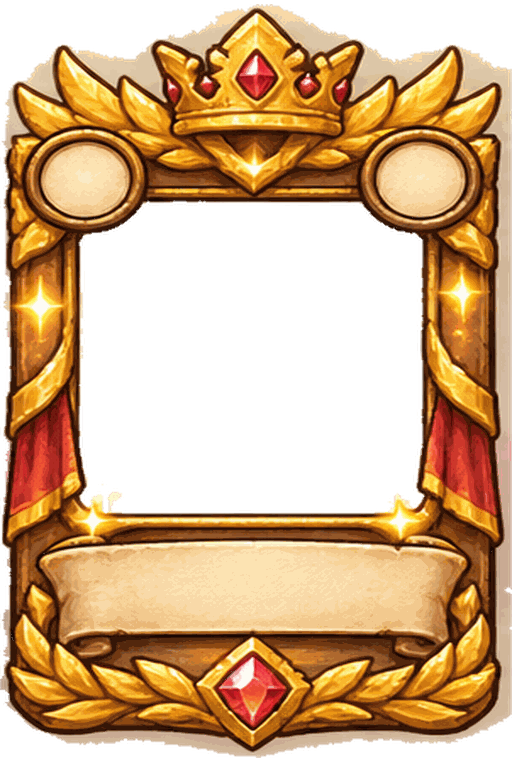
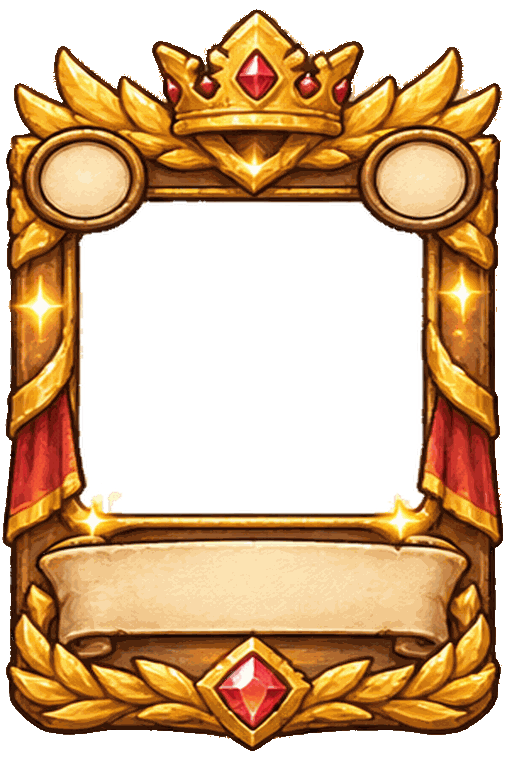
カード枠に残っていた背景を切り抜き、合成可の札がカードを覆う表示を直す
Claude-Session: https://claude.ai/code/session_01Lcti3M1rHMyEPzowsAR7Re

diff --git a/js/ui/precache.js b/js/ui/precache.js
@@ -1,2 +1,2 @@
-self.CF_CACHE_VERSION="67141b2bafe5fe93";
+self.CF_CACHE_VERSION="dad8018e7949b81d";
 self.CF_ASSETS=["index.html","manifest.webmanifest","css/accessibility.css","css/finishing-art.css","css/help-guide.css","css/kingdom.css","css/layout.css","css/mana-growth.css","css/materials.css","css/motion.css","css/mp.css","css/polish.css","css/rarity-assets.css","css/rarity-fx.css","css/settings.css","css/step5.css","css/style.css","css/theme.css","css/tutorial.css","js/game/Card.js","js/game/Castle.js","js/game/Game.js","js/game/Monster.js","js/game/Player.js","js/game/Road.js","js/game/Setup.js","js/game/Soldier.js","js/game/strategies.js","js/game/visibility.js","js/main.js","js/ui/Accessibility.js","js/ui/Animations.js","js/ui/BattleLayout.js","js/ui/CardGuide.js","js/ui/CardInfo.js","js/ui/DebugPanel.js","js/ui/HandView.js","js/ui/HelpView.js","js/ui/LocalSetup.js","js/ui/MatchStats.js","js/ui/MaterialSkin.js","js/ui/Music.js","js/ui/OnlineClient.js","js/ui/ProgressPanel.js","js/ui/Renderer.js","js/ui/RoomView.js","js/ui/Session.js","js/ui/Settings.js","js/ui/Sound.js","js/ui/Targeting.js","js/ui/Tutorial.js","js/ui/UpgradePanel.js","js/ui/art.js","js/ui/cardFrame.js","js/ui/cardView.js","js/ui/config.js","js/ui/handOrder.js","js/ui/look.js","js/ui/motion.js","js/ui/pills.js","js/ui/rarity.js","js/ui/syncCheck.js","js/ui/text.js","data/cards.json","data/castles.json","data/decks.json","data/monsters.json","data/rarities.json","data/rules.json","data/upgrades.json","assets/asset-manifest.json","assets/bg/board-meadow-compact.png","assets/bg/board-meadow.png","assets/bg/board.png","assets/bg/kingdom-meadow.png","assets/bg/kingdom-valley.png","assets/bg/title-compact.png","assets/bg/title.png","assets/cards/card-absolute-zero.png","assets/cards/card-adapt.png","assets/cards/card-apocalypse.png","assets/cards/card-apprentice-archer.png","assets/cards/card-apprentice-mage.png","assets/cards/card-archer.png","assets/cards/card-archmage.png","assets/cards/card-barrier.png","assets/cards/card-big-shield.png","assets/cards/card-big-thunder.png","assets/cards/card-blessing.png","assets/cards/card-bolt.png","assets/cards/card-cavalry.png","assets/cards/card-coin-pouch.png","assets/cards/card-death-mist.png","assets/cards/card-decoy.png","assets/cards/card-deep-freeze.png","assets/cards/card-dragon-knight.png","assets/cards/card-earth-hammer.png","assets/cards/card-earth-king.png","assets/cards/card-earth-spirit.png","assets/cards/card-fire-king.png","assets/cards/card-fire-spirit.png","assets/cards/card-fireball.png","assets/cards/card-flame-sword.png","assets/cards/card-frost-breath.png","assets/cards/card-frozen-world.png","assets/cards/card-gate.png","assets/cards/card-giant.png","assets/cards/card-glacier.png","assets/cards/card-god-shield.png","assets/cards/card-god-sword.png","assets/cards/card-goddess.png","assets/cards/card-gold-coin.png","assets/cards/card-gold-vein.png","assets/cards/card-great-earth-spirit.png","assets/cards/card-great-fire-spirit.png","assets/cards/card-great-heal.png","assets/cards/card-great-water-spirit.png","assets/cards/card-great-wind-spirit.png","assets/cards/card-heal.png","assets/cards/card-heavy.png","assets/cards/card-hero.png","assets/cards/card-holy-light.png","assets/cards/card-holy-shield.png","assets/cards/card-holy-sword.png","assets/cards/card-infantry.png","assets/cards/card-inferno.png","assets/cards/card-iron-sword.png","assets/cards/card-judgment.png","assets/cards/card-king-treasure.png","assets/cards/card-knight.png","assets/cards/card-longbowman.png","assets/cards/card-mage.png","assets/cards/card-magic-sword.png","assets/cards/card-mana-crystal.png","assets/cards/card-mana-drop.png","assets/cards/card-mana-shard.png","assets/cards/card-mana-spring.png","assets/cards/card-meteor.png","assets/cards/card-minor-heal.png","assets/cards/card-paladin.png","assets/cards/card-plague.png","assets/cards/card-poison-mist.png","assets/cards/card-prayer.png","assets/cards/card-raijin.png","assets/cards/card-reflect.png","assets/cards/card-sage.png","assets/cards/card-sandbag.png","assets/cards/card-scout.png","assets/cards/card-shield.png","assets/cards/card-sky-archer.png","assets/cards/card-sniper.png","assets/cards/card-sorcerer.png","assets/cards/card-spearman.png","assets/cards/card-starfall.png","assets/cards/card-steel-shield.png","assets/cards/card-stone-wall.png","assets/cards/card-thief.png","assets/cards/card-thunder.png","assets/cards/card-toxic-rain.png","assets/cards/card-treasure.png","assets/cards/card-venom.png","assets/cards/card-wall.png","assets/cards/card-water-king.png","assets/cards/card-water-spear.png","assets/cards/card-water-spirit.png","assets/cards/card-wind-bow.png","assets/cards/card-wind-king.png","assets/cards/card-wind-spirit.png","assets/cards/card-world-tree-dew.png","assets/cards/frame-common.png","assets/cards/frame-defense.png","assets/cards/frame-epic.png","assets/cards/frame-legendary.png","assets/cards/frame-rare.png","assets/cards/frame-soldier.png","assets/cards/frame-special.png","assets/cards/frame-spell.png","assets/cards/frame-uncommon.png","assets/cards/frame-weapon.png","assets/castles/barracks-blue-damaged-1.png","assets/castles/barracks-blue-damaged-2.png","assets/castles/barracks-blue-damaged-3.png","assets/castles/barracks-blue.png","assets/castles/barracks-orange-damaged-1.png","assets/castles/barracks-orange-damaged-2.png","assets/castles/barracks-orange-damaged-3.png","assets/castles/barracks-orange.png","assets/castles/castle-blue-damaged-1.png","assets/castles/castle-blue-damaged-2.png","assets/castles/castle-blue-damaged-3.png","assets/castles/castle-blue-ruined.png","assets/castles/castle-blue.png","assets/castles/castle-orange-damaged-1.png","assets/castles/castle-orange-damaged-2.png","assets/castles/castle-orange-damaged-3.png","assets/castles/castle-orange-ruined.png","assets/castles/castle-orange.png","assets/castles/fortress-blue-damaged-1.png","assets/castles/fortress-blue-damaged-2.png","assets/castles/fortress-blue-damaged-3.png","assets/castles/fortress-blue.png","assets/castles/fortress-orange-damaged-1.png","assets/castles/fortress-orange-damaged-2.png","assets/castles/fortress-orange-damaged-3.png","assets/castles/fortress-orange.png","assets/castles/tower-blue-damaged-1.png","assets/castles/tower-blue-damaged-2.png","assets/castles/tower-blue-damaged-3.png","assets/castles/tower-blue.png","assets/castles/tower-orange-damaged-1.png","assets/castles/tower-orange-damaged-2.png","assets/castles/tower-orange-damaged-3.png","assets/castles/tower-orange.png","assets/fx/dust.png","assets/fx/evolve-1.png","assets/fx/evolve-2.png","assets/fx/evolve-3.png","assets/fx/explosion.png","assets/fx/fireball.png","assets/fx/fusion.png","assets/fx/heal.png","assets/fx/ice.png","assets/fx/lightning.png","assets/fx/lucky-reward.png","assets/fx/poison.png","assets/ui/app-icon-192.png","assets/ui/app-icon-512.png","assets/ui/banner-win.png","assets/ui/btn-blue.png","assets/ui/btn-cream.png","assets/ui/btn-green.png","assets/ui/btn-orange.png","assets/ui/btn-red.png","assets/ui/btn-round.png","assets/ui/button-end-turn.png","assets/ui/card-back.png","assets/ui/icon-coin.png","assets/ui/icon-earth.png","assets/ui/icon-fire.png","assets/ui/icon-heart.png","assets/ui/icon-help.png","assets/ui/icon-kind-defense.png","assets/ui/icon-kind-soldier.png","assets/ui/icon-kind-spell.png","assets/ui/icon-kind-weapon.png","assets/ui/icon-kind-wild.png","assets/ui/icon-luck.png","assets/ui/icon-mode-local.png","assets/ui/icon-mode-online.png","assets/ui/icon-mode-solo.png","assets/ui/icon-mp.png","assets/ui/icon-rarity-common.png","assets/ui/icon-rarity-epic.png","assets/ui/icon-rarity-legendary.png","assets/ui/icon-rarity-rare.png","assets/ui/icon-rarity-special.png","assets/ui/icon-rarity-uncommon.png","assets/ui/icon-water.png","assets/ui/icon-wind.png","assets/ui/kingdom-crest.png","assets/ui/kingdom-parchment.png","assets/ui/kingdom-platform.png","assets/ui/kingdom-primary.png","assets/ui/kingdom-secondary.png","assets/ui/kingdom-wood.png","assets/ui/logo.png","assets/ui/natural/danger-40-left.png","assets/ui/natural/danger-40-middle.png","assets/ui/natural/danger-40-right.png","assets/ui/natural/danger-44-left.png","assets/ui/natural/danger-44-middle.png","assets/ui/natural/danger-44-right.png","assets/ui/natural/danger-72-left.png","assets/ui/natural/danger-72-middle.png","assets/ui/natural/danger-72-right.png","assets/ui/natural/frame.png","assets/ui/natural/leather-tile.png","assets/ui/natural/neutral-40-left.png","assets/ui/natural/neutral-40-middle.png","assets/ui/natural/neutral-40-right.png","assets/ui/natural/neutral-44-left.png","assets/ui/natural/neutral-44-middle.png","assets/ui/natural/neutral-44-right.png","assets/ui/natural/neutral-72-left.png","assets/ui/natural/neutral-72-middle.png","assets/ui/natural/neutral-72-right.png","assets/ui/natural/neutral-wide-full.png","assets/ui/natural/oak-tile.png","assets/ui/natural/paper-tile.png","assets/ui/natural/primary-40-left.png","assets/ui/natural/primary-40-middle.png","assets/ui/natural/primary-40-right.png","assets/ui/natural/primary-44-left.png","assets/ui/natural/primary-44-middle.png","assets/ui/natural/primary-44-right.png","assets/ui/natural/primary-72-left.png","assets/ui/natural/primary-72-middle.png","assets/ui/natural/primary-72-right.png","assets/ui/natural/primary-wide-full.png","assets/ui/natural/round-neutral.png","assets/ui/natural/round-selected.png","assets/ui/natural/selected-40-left.png","assets/ui/natural/selected-40-middle.png","assets/ui/natural/selected-40-right.png","assets/ui/natural/selected-44-left.png","assets/ui/natural/selected-44-middle.png","assets/ui/natural/selected-44-right.png","assets/ui/natural/selected-72-left.png","assets/ui/natural/selected-72-middle.png","assets/ui/natural/selected-72-right.png","assets/ui/panel-parchment.png","assets/ui/result-defeat.png","assets/ui/result-victory.png","assets/ui/sign-hp.png","assets/ui/tap-plate.png","assets/ui/title-castle-blue.png","assets/ui/title-castle-orange.png","assets/ui/title-infantry-orange.png","assets/ui/title-knight-blue.png","assets/units/apprentice-archer-blue.png","assets/units/apprentice-archer-orange.png","assets/units/apprentice-mage-blue.png","assets/units/apprentice-mage-orange.png","assets/units/archer-blue.png","assets/units/archer-orange.png","assets/units/archmage-blue.png","assets/units/archmage-orange.png","assets/units/cavalry-blue.png","assets/units/cavalry-orange.png","assets/units/dragon-knight-blue.png","assets/units/dragon-knight-orange.png","assets/units/earth-spirit.png","assets/units/fire-spirit.png","assets/units/giant-blue.png","assets/units/giant-orange.png","assets/units/great-earth-spirit.png","assets/units/great-fire-spirit.png","assets/units/great-water-spirit.png","assets/units/great-wind-spirit.png","assets/units/heavy-blue.png","assets/units/heavy-orange.png","assets/units/hero-blue.png","assets/units/hero-orange.png","assets/units/infantry-blue.png","assets/units/infantry-orange.png","assets/units/knight-blue.png","assets/units/knight-orange.png","assets/units/longbowman-blue.png","assets/units/longbowman-orange.png","assets/units/mage-blue.png","assets/units/mage-orange.png","assets/units/monster-bat.png","assets/units/monster-demon-king.png","assets/units/monster-demon.png","assets/units/monster-dragon.png","assets/units/monster-ghost.png","assets/units/monster-goblin.png","assets/units/monster-golem.png","assets/units/monster-mimic.png","assets/units/monster-skeleton.png","assets/units/monster-slime.png","assets/units/monster-treant.png","assets/units/monster-vampire.png","assets/units/paladin-blue.png","assets/units/paladin-orange.png","assets/units/sage-blue.png","assets/units/sage-orange.png","assets/units/scout-blue.png","assets/units/scout-orange.png","assets/units/sky-archer-blue.png","assets/units/sky-archer-orange.png","assets/units/sniper-blue.png","assets/units/sniper-orange.png","assets/units/sorcerer-blue.png","assets/units/sorcerer-orange.png","assets/units/spearman-blue.png","assets/units/spearman-orange.png","assets/units/water-spirit.png","assets/units/wind-spirit.png"];

diff --git a/css/mana-growth.css b/css/mana-growth.css
@@ -8,7 +8,7 @@
 .card-mp { display:flex; align-items:center; gap:2px; }
 .card-mp .ic { width:15px; height:15px; }
 .mana-recovery { position:absolute; bottom:5px; left:50%; transform:translateX(-50%); z-index:8; font-size:11px; font-weight:900; color:#103d65; background:#d7f7ff; border:1px solid #396785; border-radius:5px; padding:1px 4px; white-space:nowrap; }
-.card.can-fuse::after { content:'合成可'; position:absolute; left:3px; top:32px; z-index:9; background:#fff4ca; color:#56351d; border:1px solid #aa853b; border-radius:5px; font-size:10px; font-weight:900; padding:2px 4px; }
+.card.can-fuse::after { content:'合成可'; position:absolute; left:3px; top:32px; right:auto; bottom:auto; width:auto; height:auto; z-index:9; background:#fff4ca; color:#56351d; border:1px solid #aa853b; border-radius:5px; font-size:10px; font-weight:900; padding:2px 4px; }
 .monster-growth { font-size:10px; line-height:1.4; font-weight:900; white-space:nowrap; color:#543312; background:#fff2cf; border-radius:5px; padding:2px 4px; }
 .monster-reward { border:2px solid var(--reward-color,#a99c87); border-radius:6px; }
 .monster-aura { position:absolute; inset:-25%; pointer-events:none; z-index:-1; }

diff --git a/assets/CREDITS.md b/assets/CREDITS.md
@@ -357,3 +357,7 @@ OpenAI image generation、STYLE.mdの共通指示文と `assets/style-reference.
 すべてPNG・1ファイル300KB以下。
 
 - `ui/natural/{primary,neutral}-wide-full.png`: 生成元 `exec-3d21dc1d-316b-49bf-b7a1-6c383cbd3523.png`。大型モード選択専用に同じ形状・約4:1で再生成。余白を整え、縦横比を保った縮小とcontain表示のみ。
+
+## カード枠の切り抜きの修正（2026-11-17）
+
+- `cards/frame-{common,uncommon,rare,epic,legendary,special}.png`：生成元の背景（生成りの紙色）が枠の外に残っていたのを、Pillow で外側から背景色だけ透明にした。本体とつながっていない紙色の小さなかけらも消した。256色パレットで圧縮（各110KB以下）。描き足し・色替えなし。出どころ・ライセンスは上の各行と同じ。
